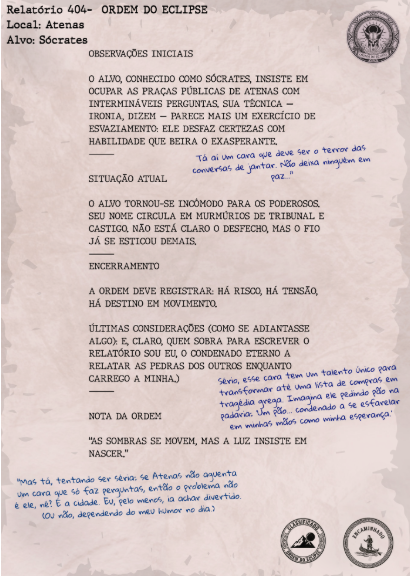
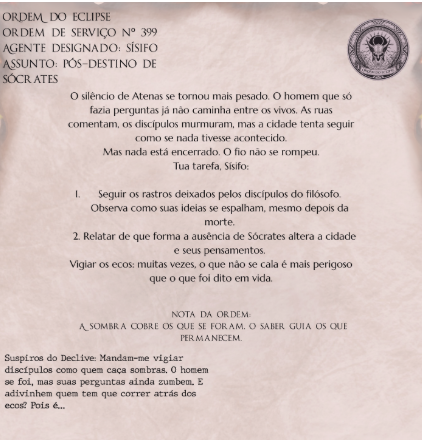
fix: corrige documentos e navegação no mapa de Atenas

Changed region(s): [[0.0, 0.0, 1.0, 0.9455], [0.6732, 0.8864, 0.9659, 1.0], [0.0, 0.3841, 0.0293, 0.5023]]

diff --git a/blog-sofia/post-atenas.html b/blog-sofia/post-atenas.html
@@ -5,7 +5,7 @@
   <meta name="description" content="Sofia investiga por que as perguntas de Sócrates incomodavam Atenas.">
   <title>Atenas | Coisas que não fazem sentido</title>
   <link rel="stylesheet" href="styles.css?v=41"><link rel="stylesheet" href="post-arco3-02.css?v=3"><link rel="icon" href="favicon.ico">
-  <link rel="preload" as="image" href="assets/arco3/post2/00_abertura/relatorio_404.png">
+  <link rel="preload" as="image" href="assets/arco3/post2/00_abertura/relatorio_404.png?v=2">
 </head>
 <body class="post-page a32-page">
   <a class="skip-link" href="#conteudo">Pular para a investigação</a>
@@ -16,7 +16,7 @@
       <p class="eyebrow">anotação 02 · arquivo 03</p>
       <h1>Tem coisas que começam a ficar suspeitas quando aparecem vezes demais.</h1>
       <div class="a32-opening-copy"><p>Sísifo é uma delas.</p><p>Encontrei outro registro dele.</p><p><strong>Atenas.</strong></p><p>E, aparentemente, um homem que tinha o péssimo hábito de fazer perguntas.</p></div>
-      <button class="a32-document-button" type="button" data-open-report><img src="assets/arco3/post2/00_abertura/relatorio_404.png" alt="Relatório 404 da Ordem do Eclipse sobre Sócrates" width="768" height="1024"><span>Examinar o Relatório 404</span></button>
+      <button class="a32-document-button" type="button" data-open-report><img src="assets/arco3/post2/00_abertura/relatorio_404.png?v=2" alt="Relatório 404 da Ordem do Eclipse sobre Sócrates" width="768" height="1024"><span>Examinar o Relatório 404</span></button>
     </section>
 
     <section class="a32-portal" data-portal hidden aria-labelledby="portal-title">
@@ -33,7 +33,8 @@
       </header>
 
       <section class="a32-map" id="athens-map" data-map aria-labelledby="map-title">
-        <img src="assets/arco3/post2/01_mapa/mapa_atenas.png" alt="Mapa ilustrado de Atenas com Acrópole, Ágora, Mercado, Oráculo, Simpósio e um local desconhecido" width="1536" height="1024">
+        <div class="a32-map-canvas">
+        <img src="assets/arco3/post2/01_mapa/mapa_atenas.png?v=2" alt="Mapa ilustrado de Atenas com Acrópole, Ágora, Mercado, Oráculo, Simpósio e um local desconhecido" width="1536" height="1024">
         <div class="a32-map-heading"><p class="eyebrow">cidade de perguntas</p><h2 id="map-title">ATENAS</h2><p>Ruas cheias. Respostas nunca definitivas.</p></div>
         <nav class="a32-map-pins" aria-label="Locais de Atenas">
           <button data-place="agora" class="pin-agora">01 <span>Ágora</span></button>
@@ -42,6 +43,7 @@
           <button data-place="symposium" class="pin-symposium" disabled>04 <span>Simpósio</span></button>
           <button data-place="socrates" class="pin-socrates" disabled>05 <span>???</span></button>
         </nav>
+        </div>
       </section>
 
       <section class="a32-scene" data-scene="agora" hidden aria-labelledby="agora-title">
@@ -90,15 +92,15 @@
     </section>
 
     <section class="a32-epilogue" data-epilogue hidden tabindex="-1">
-      <p class="eyebrow">ordem do eclipse · registro posterior</p><button type="button" data-open-order><img src="assets/arco3/post2/06_final/ordem_servico_399.png" alt="Ordem de Serviço número 399, pós-destino de Sócrates"><span>Abrir a Ordem de Serviço nº 399</span></button>
+      <p class="eyebrow">ordem do eclipse · registro posterior</p><button type="button" data-open-order><img src="assets/arco3/post2/06_final/ordem_servico_399.png?v=2" alt="Ordem de Serviço número 399, pós-destino de Sócrates"><span>Abrir a Ordem de Serviço nº 399</span></button>
       <div data-epilogue-copy hidden><p class="a32-speaker">SOFIA</p><p>Ele sabia.</p><p>Sísifo sabia como isso terminava.</p><p class="a32-pause">Então por que continuou seguindo os rastros?</p><h2>ATENAS — CONCLUÍDA</h2><article class="a32-emblem-reward" data-mnemosyne-reward hidden><img src="assets/emblemas/agencia-mnemosyne-animacao.png" alt="Emblema da Agência Mnemosyne"><div><span>EMBLEMA DESBLOQUEADO</span><h3>Agência Mnemosyne</h3><p>Memórias, rastros e ecos que insistem em permanecer.</p></div></article><a href="arquivo-biblioteca.html">voltar ao arquivo 03</a></div>
     </section>
   </main>
 
-  <dialog class="a32-dialog a32-doc-dialog" data-report-dialog aria-labelledby="report-title"><button class="a32-close" data-close aria-label="Fechar">Fechar</button><img src="assets/arco3/post2/00_abertura/relatorio_404.png" alt="Relatório 404"><div><p class="eyebrow">ALVO: SÓCRATES</p><h2 id="report-title">O alvo tornou-se incômodo para os poderosos.</h2><p>Sua ironia parece mais um exercício de esvaziamento: ele desfaz certezas.</p><button class="a32-primary" type="button" data-reveal-wanted>SÓCRATES</button></div></dialog>
+  <dialog class="a32-dialog a32-doc-dialog" data-report-dialog aria-labelledby="report-title"><button class="a32-close" data-close aria-label="Fechar">Fechar</button><img src="assets/arco3/post2/00_abertura/relatorio_404.png?v=2" alt="Relatório 404"><div><p class="eyebrow">ALVO: SÓCRATES</p><h2 id="report-title">O alvo tornou-se incômodo para os poderosos.</h2><p>Sua ironia parece mais um exercício de esvaziamento: ele desfaz certezas.</p><button class="a32-primary" type="button" data-reveal-wanted>SÓCRATES</button></div></dialog>
   <dialog class="a32-dialog" data-dialog aria-labelledby="dialog-title"><button class="a32-close" data-close aria-label="Fechar">Fechar</button><div class="a32-dialog-copy"><p class="eyebrow" data-dialog-kicker>registro</p><h2 id="dialog-title" data-dialog-title></h2><div data-dialog-body></div><div class="a32-choices" data-dialog-choices></div><button class="a32-primary" type="button" data-dialog-next hidden>Continuar</button></div></dialog>
   <dialog class="a32-dialog a32-image-dialog a32-boots-dialog" data-boots-dialog aria-labelledby="boots-title"><button class="a32-close" data-close aria-label="Fechar">Fechar</button><p class="eyebrow">um detalhe familiar</p><h2 id="boots-title">Espera… essas botas—</h2><img src="assets/arco3/post2/05_simposio/botas_sala17.png" alt="Close das botas pretas e roxas de Capuz enquanto ele atravessa uma porta"><p>Antes que Sofia consiga alcançá-lo, Capuz desaparece.</p></dialog>
-  <dialog class="a32-dialog a32-doc-dialog" data-order-dialog aria-labelledby="order-title"><button class="a32-close" data-close aria-label="Fechar">Fechar</button><img src="assets/arco3/post2/06_final/ordem_servico_399.png" alt="Ordem de Serviço 399"><div><p class="eyebrow">ASSUNTO: PÓS-DESTINO DE SÓCRATES</p><h2 id="order-title">Mas nada está encerrado.</h2><p>O fio não se rompeu. Siga os rastros dos discípulos. Observe como as ideias se espalham depois da morte. Vigie os ecos.</p></div></dialog>
+  <dialog class="a32-dialog a32-doc-dialog" data-order-dialog aria-labelledby="order-title"><button class="a32-close" data-close aria-label="Fechar">Fechar</button><img src="assets/arco3/post2/06_final/ordem_servico_399.png?v=2" alt="Ordem de Serviço 399"><div><p class="eyebrow">ASSUNTO: PÓS-DESTINO DE SÓCRATES</p><h2 id="order-title">Mas nada está encerrado.</h2><p>O fio não se rompeu. Siga os rastros dos discípulos. Observe como as ideias se espalham depois da morte. Vigie os ecos.</p></div></dialog>
 
   <script src="percurso.js?v=5"></script><script src="investigacao-dados.js?v=4"></script><script src="script.js?v=31"></script><script src="contraste.js?v=8"></script><script src="post-arco3-02.js?v=3"></script>
 </body></html>

diff --git a/blog-sofia/post-arco3-02.css b/blog-sofia/post-arco3-02.css
@@ -12,3 +12,4 @@
 .a32-testimony{width:116px;height:116px;padding:0;border-radius:50%;overflow:visible;background:#111827}.a32-testimony img{display:block;width:100%;height:100%;border-radius:50%;object-fit:cover;object-position:center 12%}.a32-testimony span{position:absolute;left:50%;bottom:-.35rem;translate:-50% 100%;padding:.32rem .55rem;border:1px solid var(--a32-gold);background:#080b13e8;font-size:.75rem;font-weight:800}.testimony-host{left:18%;top:auto;bottom:14%}.testimony-youth{left:48%;top:auto;bottom:19%}.testimony-citizen{right:20%;top:auto;bottom:18%}@media(max-width:760px){.a32-testimony{width:82px;height:82px}.testimony-citizen{right:25%;bottom:20%}}
 .a32-pythia{position:absolute;z-index:3;left:35%;bottom:7%;width:31%;height:68%;max-height:none;filter:none}.a32-pythia::before{content:"";position:absolute;z-index:0;left:25%;right:23%;bottom:14%;height:38%;border:1px solid #9b805b;background:linear-gradient(105deg,#66533d,#b09a75 42%,#705b42 78%,#453928);clip-path:polygon(12% 0,88% 0,100% 12%,94% 100%,6% 100%,0 12%);box-shadow:inset 0 0 0 5px #3c3125aa,0 18px 26px #0008}.a32-pythia::after{content:"";position:absolute;z-index:0;left:17%;right:15%;bottom:4%;height:9%;border-radius:50%;background:#05050588;filter:blur(9px)}.a32-pythia img{position:relative;z-index:1;display:block;width:100%;height:100%;object-fit:contain;filter:drop-shadow(0 10px 12px #0008)}@media(max-width:760px){.a32-pythia{left:28%;width:44%;height:60%;bottom:5%}}
 .a32-map{display:grid;place-items:center;padding-top:70px}.a32-map>img{width:100%;height:calc(100vh - 70px);object-fit:contain;background:#070911}.a32-action-guide{max-width:48ch;margin-top:.7rem!important;color:#e4d7bd;font:600 .82rem/1.45 Inter,system-ui,sans-serif;letter-spacing:.02em}.agora-youth{left:47%;bottom:16%;width:116px;height:116px;border:2px solid var(--a32-gold);border-radius:50%;overflow:visible;background:#111827;box-shadow:0 10px 24px #0009}.agora-youth img{position:static;display:block;left:auto;bottom:auto;width:100%;height:100%;max-width:100%;border-radius:50%;object-fit:cover;object-position:center 14%;translate:none}.agora-youth span{bottom:-.35rem;translate:-50% 100%;opacity:1;font-size:.75rem;font-weight:800}.agora-obol{left:30%;bottom:8%;width:58px;height:58px}.agora-note{right:36%;bottom:7%;width:72px;height:72px}.agora-token{right:27%;bottom:8%}.agora-hood,.market-hood,.symposium-hood{width:clamp(110px,13vw,178px);height:54%;border:0;border-radius:0;overflow:visible;background:transparent;box-shadow:none}.agora-hood img,.market-hood img,.symposium-hood img{display:block!important;width:100%;height:100%;max-width:100%;object-fit:contain;object-position:center bottom;filter:drop-shadow(0 12px 14px #000b)}.agora-hood{right:10%;bottom:3%}.market-hood{right:10%;bottom:3%}.symposium-hood{right:10%;bottom:3%}.a32-boots-dialog{overflow:hidden}.a32-boots-dialog img{animation:a32-boots-zoom 2.4s ease-out both}.a32-boots-dialog p:last-child{margin:.8rem auto 0;max-width:52ch;color:#e4d7bd}@keyframes a32-boots-zoom{from{scale:1.06;filter:brightness(.72)}to{scale:1;filter:brightness(1)}}@media(max-width:760px){.a32-map{padding-top:84px}.a32-map>img{height:calc(100vh - 84px);margin-top:0;object-fit:contain}.a32-map-pins button{scale:.72}.agora-youth{left:43%;bottom:14%;width:82px;height:82px}.agora-hood,.market-hood,.symposium-hood{right:15%;width:98px;height:44%}.a32-rastro{max-width:calc(100% - 2rem)}}
+.a32-map{display:flex;align-items:center;justify-content:center;padding:70px 0 0}.a32-map-canvas{position:relative;width:min(100%,calc((100vh - 70px)*1.5));aspect-ratio:3/2}.a32-map-canvas>img{display:block;width:100%;height:100%;object-fit:contain;background:#070911}.a32-map-pins{position:absolute;z-index:4;inset:0;pointer-events:none}.a32-map-pins button{pointer-events:auto}.a32-map-pins button:not(:disabled){border:2px solid var(--a32-focus);background:#ffe08a16;box-shadow:0 0 0 7px #ffe08a20,0 0 24px #ffe08a66;animation:a32-map-ready 1.8s ease-in-out infinite}.a32-map-pins button:not(:disabled)::after{content:"ENTRAR";position:absolute;left:50%;bottom:-.35rem;translate:-50% 100%;padding:.28rem .5rem;border:1px solid var(--a32-gold);background:#080b13;color:#fff;font:800 .68rem/1 Inter,system-ui,sans-serif;letter-spacing:.08em}.a32-map-pins button:disabled{pointer-events:none}@keyframes a32-map-ready{50%{box-shadow:0 0 0 11px #ffe08a0b,0 0 34px #ffe08a99}}@media(max-width:760px){.a32-map{padding-top:84px}.a32-map-canvas{width:min(100%,calc((100vh - 84px)*1.5))}}
